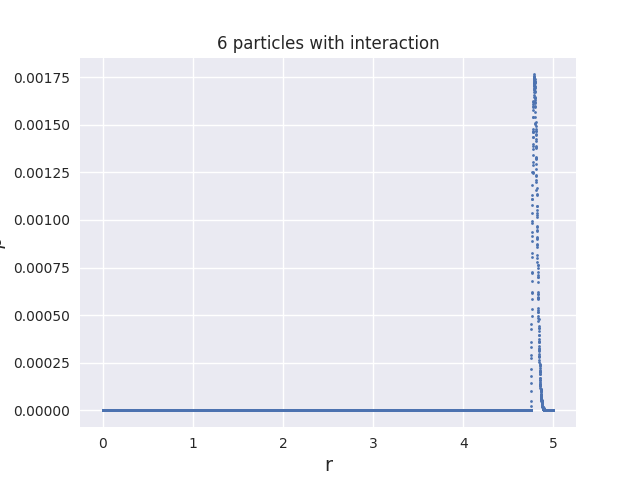
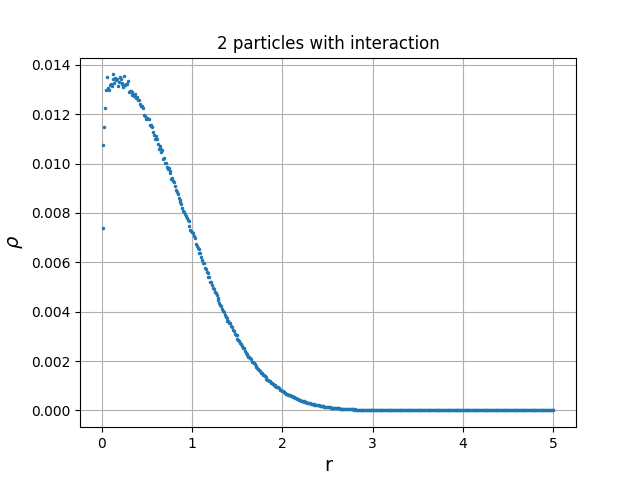
Added modified scripts and resampling tools written in C++

diff --git a/doc/src/Resampling/AutoBlocking/blocker.cpp b/doc/src/Resampling/AutoBlocking/blocker.cpp
@@ -1,0 +1,126 @@
+#include "blocker.h"
+#include <cmath>
+
+std::vector<double> operator-(std::vector<double> v, double scalar )
+{
+    for(double& vi : v) vi = vi - scalar;
+    return v;
+}
+
+Blocker::Blocker(std::vector<double>& x)
+{
+    setData(x);
+}
+
+void Blocker::setData(std::vector<double>& x)
+{
+    unsigned long long n = x.size();
+    // checks if size of input vector is a power of two
+    if ( !isPowerOfTwo(n) )
+    {
+        // Error
+        stdErr = mean = mse_stdErr = mse_mean = -1.0f;
+        nK = 0;
+        printf( "Error: Data size must be a power of two." );
+    }
+    else {
+        // success. Proceeds to compute results
+        mean = this->avg(x);
+        mse_mean = 0 + estimate(x, n);
+        stdErr = sqrt(mse_mean);
+        mse_stdErr = (2*nK-1)*mse_mean*mse_mean/(nK*nK);
+    }
+}
+
+// checks that integer n is a power of 2
+bool Blocker::isPowerOfTwo(unsigned long long n)
+{
+    return (n>0 && ((n & (n-1)) == 0));
+}
+
+// the algorithm which computes the variance of the sample mean.
+double Blocker::estimate(std::vector<double>& x, unsigned long long& n)
+{
+    // since n is a power of two, d is an integer.
+    int d = log2(n);
+    std::vector<double> X = x - mean;
+    std::vector<double> s(d, 0.0f);
+    std::vector<double> gamma(d, 0.0f);
+    // computes covariance and variance and applies blocking transform
+    for (int k = 0; k <= d-1; k++) {
+        gamma[k] = this->gamma1(X, n);
+        s[k] = this->var(X, n);
+        this->transform(X, x, n);
+    }
+    // computes the test statistic Mj
+    std::vector<double> M(d, 0.0f);
+    for(int j = 0; j <= d-1; j++) {
+        M[j] = pow(gamma[j]/s[j],2 )*pow(2,d-j);
+    }
+    M = this->cumsum(this->flip(M));
+    // finds the first k such that Mk < quantile[k]
+    int k;
+    for(k = d-1; k >= 0; k--) {
+        if(M[k] < quantile[k])
+            break;
+    }
+    int K = d-(k+1);
+    // returns answer
+    nK = pow(2, d-K);
+    return s[K]/nK;
+}
+
+// performs blocking transformation
+void Blocker::transform(std::vector<double>& X, std::vector<double>& x, unsigned long long& n)
+{
+    for (unsigned long long i = 0; i < n/2; i++) {
+        x[i] = 0.5*( x[2*i] + x[2*i+1] );
+        X[i] = x[i] - mean;
+    }
+    n = n/2;
+}
+
+// reverses the order of the std::vector M
+std::vector<double> Blocker::flip(std::vector<double> M)
+{
+    int _n = M.size();
+    std::vector<double> _M(_n,0.0f);
+    int i = _n-1;
+    for (double& m : M) _M[i--] = m;
+    return _M;
+}
+
+// performs cumulative sum on the elements of M
+std::vector<double> Blocker::cumsum(std::vector<double> M)
+{
+    int _n = M.size();
+    std::vector<double> _M(_n,0.0f);
+    for (int i = 0; i < _n; i++) {
+        for(int j = 0; j<=i; j++ ) _M[i] += M[j];
+    }
+    return _M;
+}
+
+// estimates gamma_h(1) for all h
+double Blocker::gamma1(std::vector<double>& X, unsigned long long& n)
+{
+    double s = 0;
+    for (unsigned long long i = 0; i < n-1; i++) s += X[i]*X[i+1];
+    return s/n;
+}
+
+// estimates gamma_h(0) for all h
+double Blocker::var(std::vector<double>& X, unsigned long long& n)
+{
+    double s = 0;
+    for (unsigned long long i = 0; i < n; i++)  s += X[i]*X[i];
+    return s/n;
+}
+
+// estimates mean of x
+double Blocker::avg(std::vector<double>& x)
+{
+    double s = 0;
+    for (double& xi : x)  s += xi;
+    return s/double(x.size());
+}

diff --git a/doc/src/Resampling/AutoBlocking/blocker.h b/doc/src/Resampling/AutoBlocking/blocker.h
@@ -1,0 +1,53 @@
+#ifndef BLOCKER_H
+#define BLOCKER_H
+
+#include <iostream>
+#include <vector>
+
+
+class Blocker
+{
+public:
+    unsigned long long nK;
+    // variables that hold the results
+    double stdErr, mean, mse_stdErr, mse_mean;
+    // a vector of magic numbers
+    std::vector<double> quantile {
+        3.841459,  5.991465,  7.814728,  9.487729,  11.070498, 12.591587, 14.067140, 15.507313,
+        16.918978, 18.307038, 19.675138, 21.026070, 22.362032, 23.684791, 24.995790, 26.296228,
+        27.587112, 28.869299, 30.143527, 31.410433, 32.670573, 33.924438, 35.172462, 36.415029,
+        37.652484, 38.885139, 40.113272, 41.337138, 42.556968, 43.772972, 44.985343, 46.194260,
+        47.399884, 48.602367, 49.801850, 50.998460, 52.192320, 53.383541, 54.572228, 55.758479,
+        56.942387, 58.124038, 59.303512, 60.480887, 61.656233, 62.829620, 64.001112, 65.170769,
+        66.338649, 67.504807, 68.669294, 69.832160, 70.993453, 72.153216, 73.311493, 74.468324,
+        75.623748, 76.777803, 77.930524, 79.081944, 80.232098, 81.381015, 82.528727, 83.675261};
+
+    Blocker(std::vector<double>& x);
+
+    void setData(std::vector<double>& x);
+
+    // checks that integer n is a power of 2
+    bool isPowerOfTwo(unsigned long long n);
+
+private:
+
+    // the algorithm which computes the variance of the sample mean.
+    double estimate(std::vector<double>& x, unsigned long long& n);
+
+    // performs blocking transformation
+    void transform(std::vector<double>& X, std::vector<double>& x, unsigned long long& n);
+
+    // estimates gamma_h(1) for all h
+    double gamma1(std::vector<double>& X, unsigned long long& n);
+
+    // estimates gamma_h(0) for all h
+    double var(std::vector<double>& X, unsigned long long& n);
+
+    std::vector<double> cumsum(std::vector<double> M);
+
+    std::vector<double> flip(std::vector<double> M);
+
+    double avg(std::vector<double>& x);
+};
+
+#endif // BLOCKER_H

diff --git a/doc/scripts/plot_ob_density.py b/doc/scripts/plot_ob_density.py
@@ -9,25 +9,23 @@ def exact(r1):
 data1 = np.loadtxt("../data/OB.dat")
 #data2 = np.loadtxt("../data/OB_w_interaction.dat")
 
+data1 = data1[9500:]
+
 label_size = {"size":"14"}
 
-
 r1 = np.linspace(0, 5, len(data1))
-#r2 = np.linspace(0, 3, len(data2))
 
 data2 = exact(r1)
 data1 = data1/np.sum(data1)
-data2 = data2/np.sum(data2)
+data2 = 1.65*data2/np.sum(data2)
 
-sns.set()
 data1/=(r1)
-plt.plot(r1, data1, '.', markersize=4, label="Interaction")
-#plt.plot(r1, data2)
-
-#plt.plot(r2, data2, '-', linewidth=1.0, label="W")
-plt.title("6 particles with interaction")
+plt.plot(r1, data1, '.', markersize=2, label="Interaction")
+plt.plot(r1, data2, '--', linewidth=1.0, label="W")
+plt.title("2 particles with interaction")
 plt.xlabel("r", **label_size)
 plt.ylabel(r"$\rho$", **label_size)
 #plt.legend(loc="best")
-plt.savefig("../html/ob.png")
+plt.grid()
+plt.savefig("../html/ob_2^22.png")
 plt.show()

diff --git a/doc/src/Resampling/AutoBlocking/main.cpp b/doc/src/Resampling/AutoBlocking/main.cpp
@@ -1,0 +1,21 @@
+#include "blocker.h"
+#include <fstream>
+#include <string>
+
+int main(int, char *[])
+{
+    std::ifstream infile("../resources/test/data1.txt");
+    std::vector<double> x;
+    std::string line;
+    while(std::getline(infile,line)) x.push_back(strtod(line.c_str(),nullptr) );
+
+    // Constructor accepts a vector
+    // This vector must have a size which is a power of 2.
+    Blocker block(x);
+
+    // the public variables mean, mse_mean, stdErr and mse_stdErr are output
+    printf("Expected value = %g (with mean sq. err. = %g) \n", block.mean, block.mse_mean);
+    printf("Standard error = %g (with mean sq. err. = %g) \n", block.stdErr, block.mse_stdErr);
+
+    return 0;
+}
